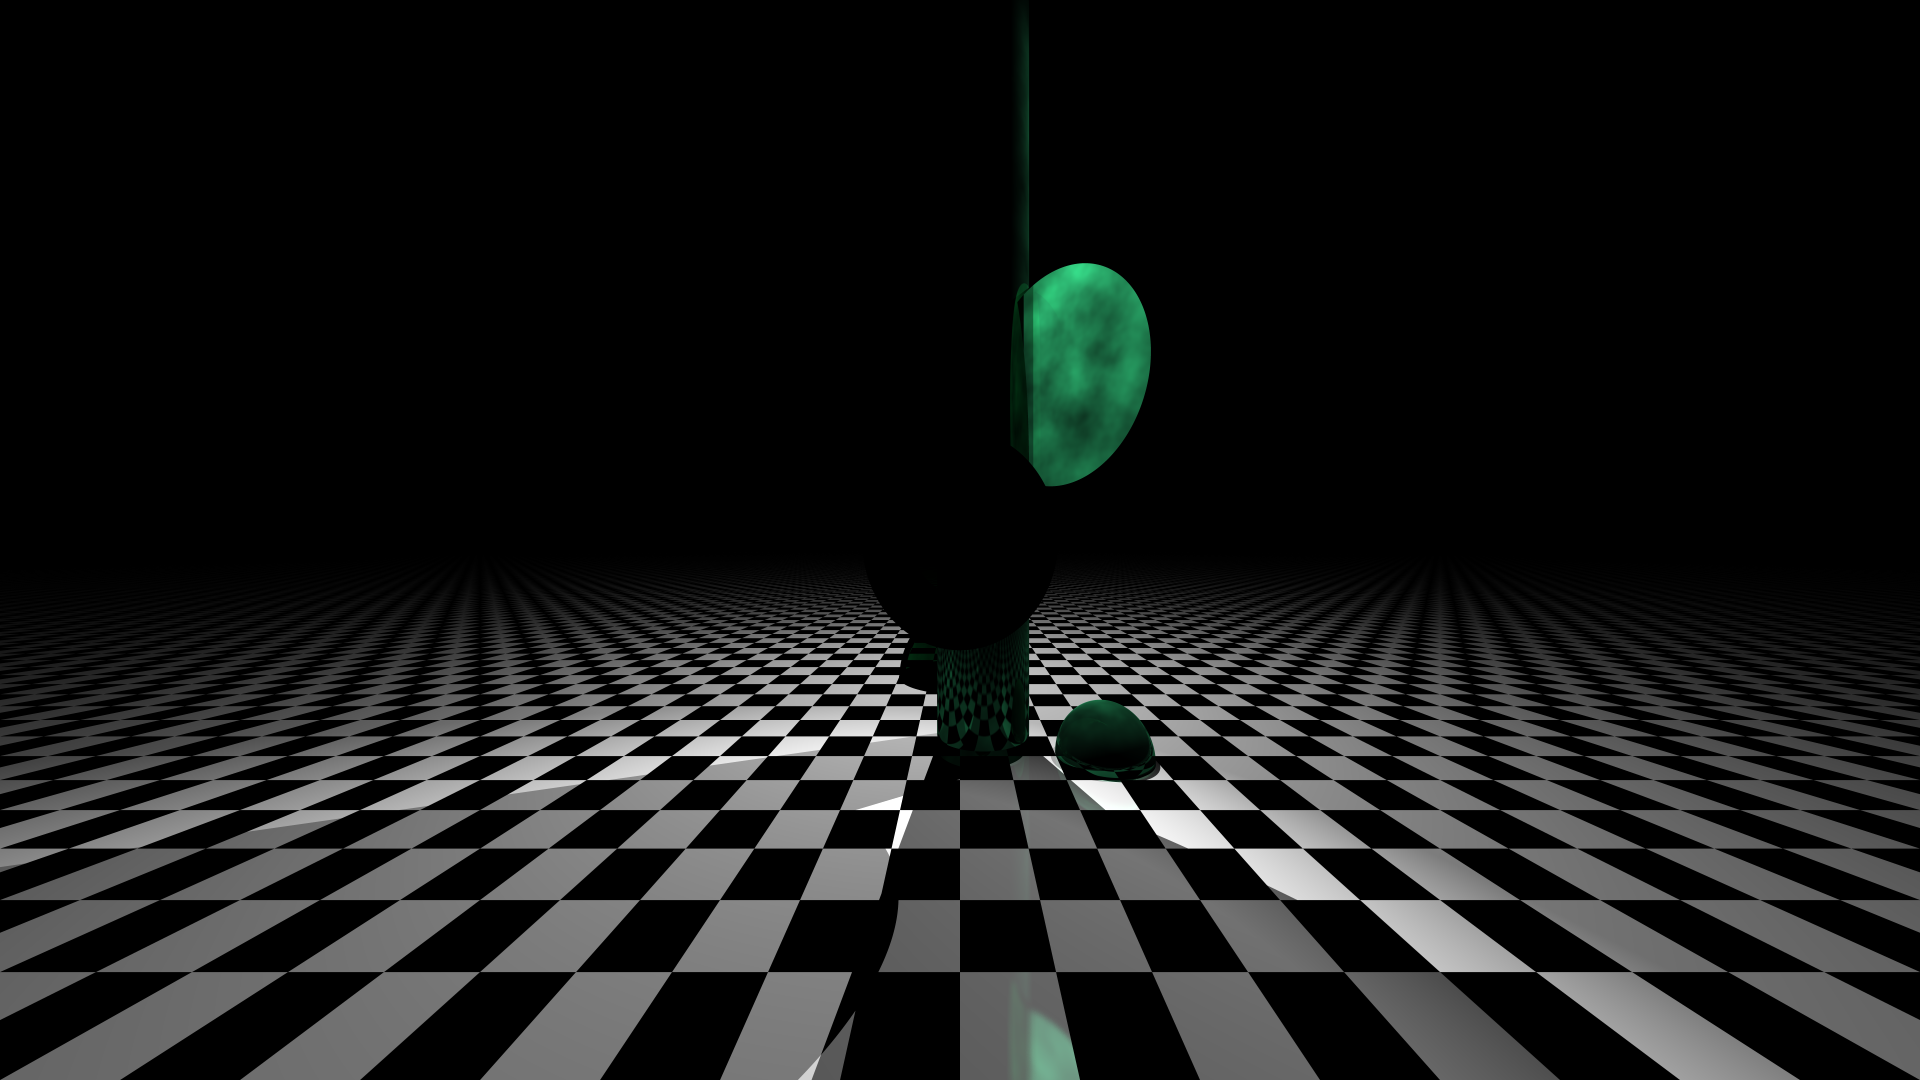
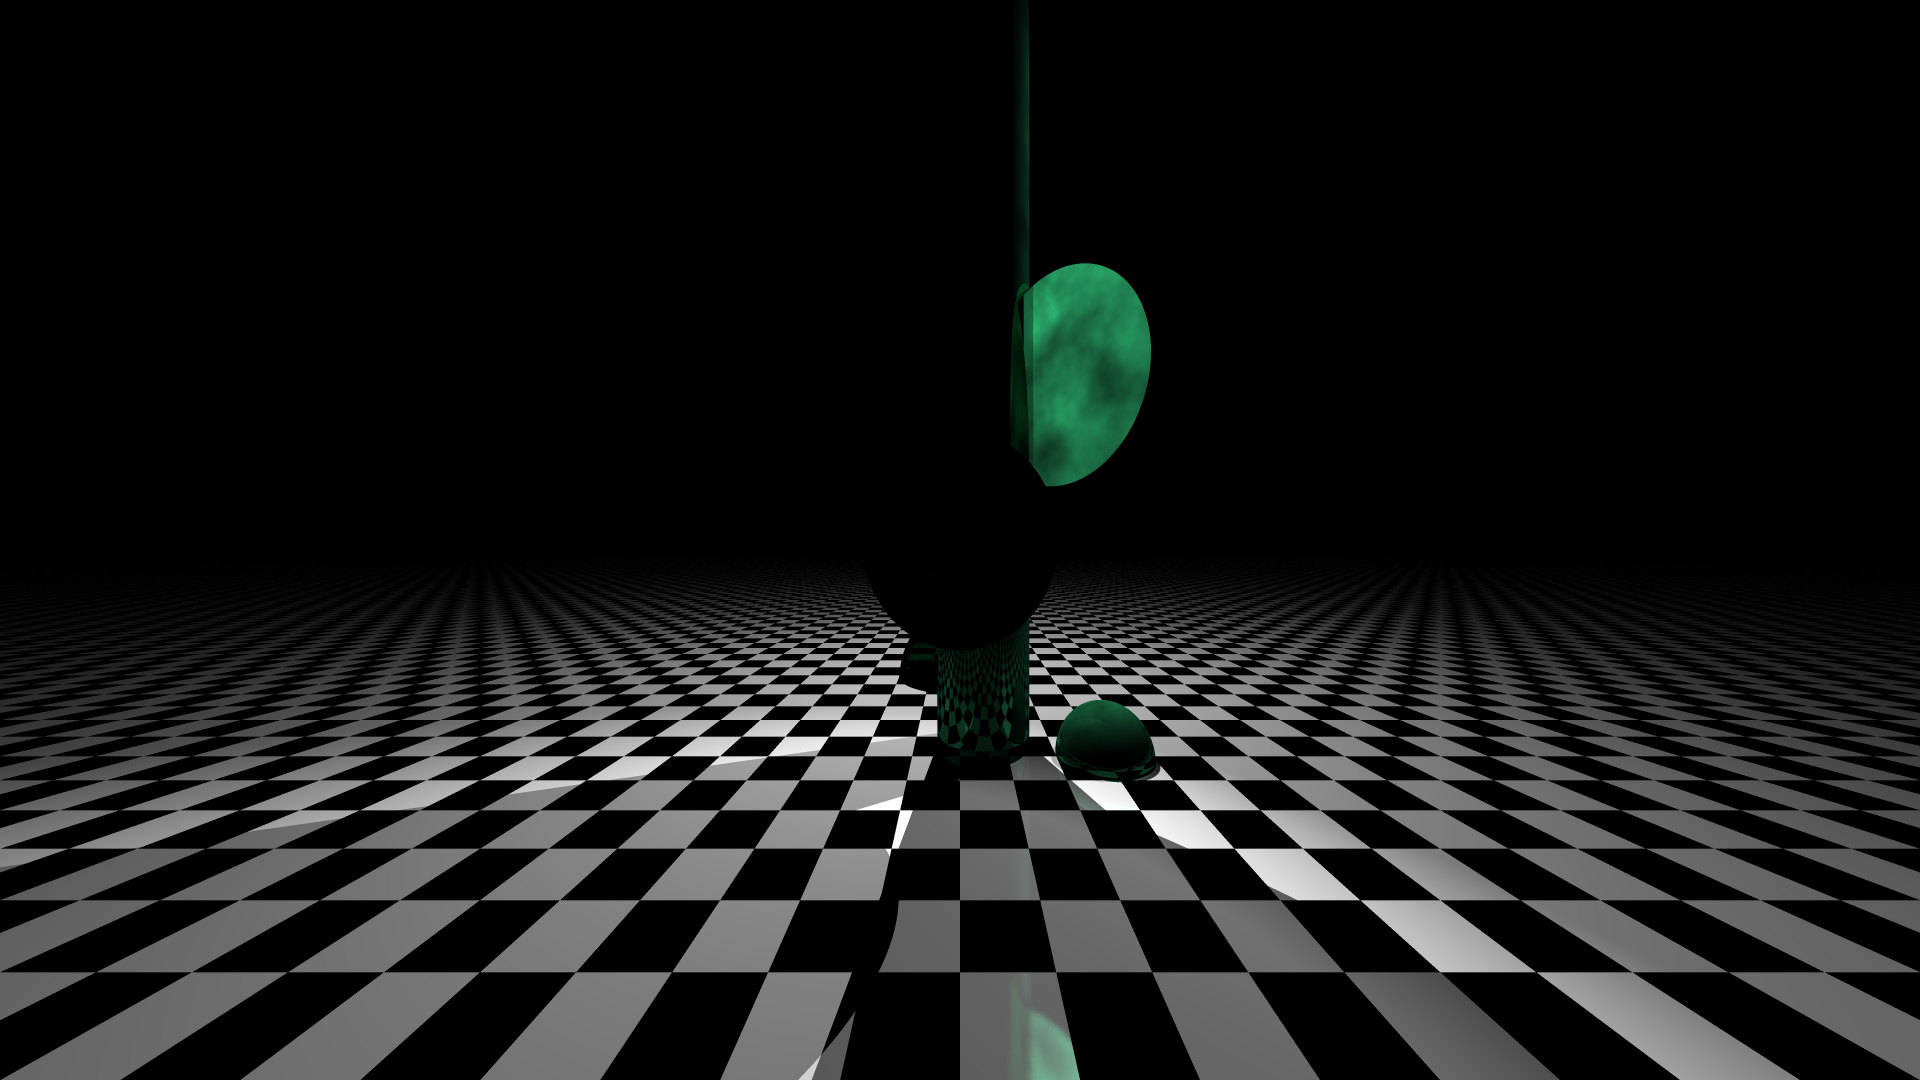
Optimize lights

Changed region(s): [[0.5312, 0.2444, 0.5938, 0.4278], [0.5312, 0.6111, 0.6875, 0.6722], [0.3125, 0.6111, 0.4688, 0.6417]]

diff --git a/src/main.rs b/src/main.rs
@@ -143,39 +143,39 @@ fn main() {
         g: 0.8,
         b: 0.5,
     }));
-    let light_square = Arc::new(Rectangle {
-        color: WHITE,
-        origin: Vec3 {
+    let light_square = Arc::new(Rectangle::new(
+        WHITE,
+        Vec3 {
             x: 10.0,
             y: -5.0,
             z: 8.0,
         },
-        dir1: Vec3 {
+        Vec3 {
             x: -20.0,
             y: 0.0,
             z: 0.0,
         },
-        dir2: Vec3 {
+        Vec3 {
             x: 0.0,
             y: 0.0,
             z: 0.1,
         },
-        power: 100.0,
-    });
+        100.0,
+    ));
 
-    let light_omnidirectional = Arc::new(Omnidirectional {
-        color: Color {
+    let light_omnidirectional = Arc::new(Omnidirectional::new(
+        Color {
             r: 1.0,
             g: 1.0,
             b: 1.0,
         },
-        position: Vec3 {
+        Vec3 {
             x: 0.0,
             y: -10.0,
             z: 15.0,
         },
-        power: 100.0,
-    });
+        100.0,
+    ));
     let light_spot = Arc::new(DiffuseSpot::new(
         Color {
             r: 1.0,
@@ -196,19 +196,19 @@ fn main() {
         30.0,
         100.0,
     ));
-    let light_omnidirectional_2 = Arc::new(Omnidirectional {
-        color: Color {
+    let light_omnidirectional_2 = Arc::new(Omnidirectional::new(
+        Color {
             r: 0.5,
             g: 0.0,
             b: 1.0,
         },
-        position: Vec3 {
+        Vec3 {
             x: 10.0,
             y: 10.0,
             z: 0.0,
         },
-        power: 10.0,
-    });
+        10.0,
+    ));
 
     scene.add_primitive(
         Arc::new(sphere),

diff --git a/src/raytracer/textures/perlin.rs b/src/raytracer/textures/perlin.rs
@@ -5,22 +5,6 @@ use crate::raytracer::hittables::HitInfo;
 use crate::raytracer::textures::Texture;
 use crate::raytracer::utils::Vec3;
 
-const PERMUTATIONS: [usize; 256] = [
-    151, 160, 137, 91, 90, 15, 131, 13, 201, 95, 96, 53, 194, 233, 7, 225, 140, 36, 103, 30, 69,
-    142, 8, 99, 37, 240, 21, 10, 23, 190, 6, 148, 247, 120, 234, 75, 0, 26, 197, 62, 94, 252, 219,
-    203, 117, 35, 11, 32, 57, 177, 33, 88, 237, 149, 56, 87, 174, 20, 125, 136, 171, 168, 68, 175,
-    74, 165, 71, 134, 139, 48, 27, 166, 77, 146, 158, 231, 83, 111, 229, 122, 60, 211, 133, 230,
-    220, 105, 92, 41, 55, 46, 245, 40, 244, 102, 143, 54, 65, 25, 63, 161, 1, 216, 80, 73, 209, 76,
-    132, 187, 208, 89, 18, 169, 200, 196, 135, 130, 116, 188, 159, 86, 164, 100, 109, 198, 173,
-    186, 3, 64, 52, 217, 226, 250, 124, 123, 5, 202, 38, 147, 118, 126, 255, 82, 85, 212, 207, 206,
-    59, 227, 47, 16, 58, 17, 182, 189, 28, 42, 223, 183, 170, 213, 119, 248, 152, 2, 44, 154, 163,
-    70, 221, 153, 101, 155, 167, 43, 172, 9, 129, 22, 39, 253, 19, 98, 108, 110, 79, 113, 224, 232,
-    178, 185, 112, 104, 218, 246, 97, 228, 251, 34, 242, 193, 238, 210, 144, 12, 191, 179, 162,
-    241, 81, 51, 145, 235, 249, 14, 239, 107, 49, 192, 214, 31, 181, 199, 106, 157, 184, 84, 204,
-    176, 115, 121, 50, 45, 127, 4, 150, 254, 138, 236, 205, 93, 222, 114, 67, 29, 24, 72, 243, 141,
-    128, 195, 78, 66, 215, 61, 156, 180,
-];
-
 pub struct PerlinTexture {
     color: Color,
     noise: PerlinNoise,

diff --git a/src/raytracer/lights/diffuse_spot.rs b/src/raytracer/lights/diffuse_spot.rs
@@ -9,6 +9,9 @@ pub struct DiffuseSpot {
     pub angle: f32,
     pub max_angle: f32,
     pub power: f32,
+    pub temp_1: f32,
+    pub temp_2: Color,
+    pub temp_21: Color,
 }
 
 impl DiffuseSpot {
@@ -21,7 +24,10 @@ impl DiffuseSpot {
             direction: direction.normalized(),
             angle: angle.to_radians(),
             max_angle: max_angle.to_radians(),
-            power: power,
+            power,
+            temp_1: max_angle.to_radians() - angle.to_radians(),
+            temp_2: color * power,
+            temp_21: 1.0 / (max_angle.to_radians() - angle.to_radians()) * color * power,
         }
     }
 }
@@ -36,9 +42,9 @@ impl Light for DiffuseSpot {
             .abs();
 
         if angle < self.angle {
-            self.color * self.power / (0.7 * direction.length() + 1.5 * direction.squared_length())
+            self.temp_2 / (0.7 * direction.length() + 1.5 * direction.squared_length())
         } else if angle < self.max_angle {
-            (self.max_angle - angle) / (self.max_angle - self.angle) * self.color * self.power
+            (self.max_angle - angle) * self.temp_21
                 / (0.7 * direction.length() + 1.5 * direction.squared_length())
         } else {
             BLACK

diff --git a/src/raytracer/lights/rectangle.rs b/src/raytracer/lights/rectangle.rs
@@ -6,11 +6,25 @@ use crate::raytracer::utils::Vec3;
 use crate::raytracer::utils::SOURCE_PER_SURFACE;
 
 pub struct Rectangle {
-    pub color: Color,
-    pub origin: Vec3,
-    pub dir1: Vec3,
-    pub dir2: Vec3,
-    pub power: f32,
+    color: Color,
+    origin: Vec3,
+    dir1: Vec3,
+    dir2: Vec3,
+    power: f32,
+    color_power: Color,
+}
+
+impl Rectangle {
+    pub fn new(color: Color, origin: Vec3, dir1: Vec3, dir2: Vec3, power: f32) -> Rectangle {
+        Rectangle {
+            color,
+            origin,
+            dir1,
+            dir2,
+            power,
+            color_power: color * power,
+        }
+    }
 }
 
 impl Light for Rectangle {
@@ -25,6 +39,6 @@ impl Light for Rectangle {
     }
 
     fn get_color(&self, direction: &Vec3) -> Color {
-        self.color * self.power / (0.7 * direction.length() + 1.5 * direction.squared_length())
+        self.color_power / (0.7 * direction.length() + 1.5 * direction.squared_length())
     }
 }

diff --git a/src/raytracer/lights/spot.rs b/src/raytracer/lights/spot.rs
@@ -3,11 +3,12 @@ use crate::raytracer::lights::light::Light;
 use crate::raytracer::utils::Vec3;
 
 pub struct Spot {
-    pub color: Color,
-    pub position: Vec3,
-    pub direction: Vec3,
-    pub angle: f32,
-    pub power: f32,
+    color: Color,
+    position: Vec3,
+    direction: Vec3,
+    angle: f32,
+    power: f32,
+    color_power: Color,
 }
 
 impl Spot {
@@ -17,7 +18,8 @@ impl Spot {
             position,
             direction: direction.normalized(),
             angle: angle.to_radians(),
-            power: power,
+            power,
+            color_power: color * power,
         }
     }
 }
@@ -34,7 +36,7 @@ impl Light for Spot {
         {
             BLACK
         } else {
-            self.color * self.power / (0.7 * direction.length() + 1.5 * direction.squared_length())
+            self.color_power / (0.7 * direction.length() + 1.5 * direction.squared_length())
         }
     }
 }

diff --git a/src/raytracer/lights/omnidirectional.rs b/src/raytracer/lights/omnidirectional.rs
@@ -3,9 +3,21 @@ use crate::raytracer::lights::light::Light;
 use crate::raytracer::utils::Vec3;
 
 pub struct Omnidirectional {
-    pub color: Color,
-    pub position: Vec3,
-    pub power: f32,
+    color: Color,
+    position: Vec3,
+    power: f32,
+    color_power: Color,
+}
+
+impl Omnidirectional {
+    pub fn new(color: Color, position: Vec3, power: f32) -> Omnidirectional {
+        Omnidirectional {
+            color,
+            position,
+            power,
+            color_power: color * power,
+        }
+    }
 }
 
 impl Light for Omnidirectional {
@@ -13,6 +25,6 @@ impl Light for Omnidirectional {
         vec![self.position]
     }
     fn get_color(&self, direction: &Vec3) -> Color {
-        self.color * self.power / (0.7 * direction.length() + 1.5 * direction.squared_length())
+        self.color_power / (0.7 * direction.length() + 1.5 * direction.squared_length())
     }
 }
